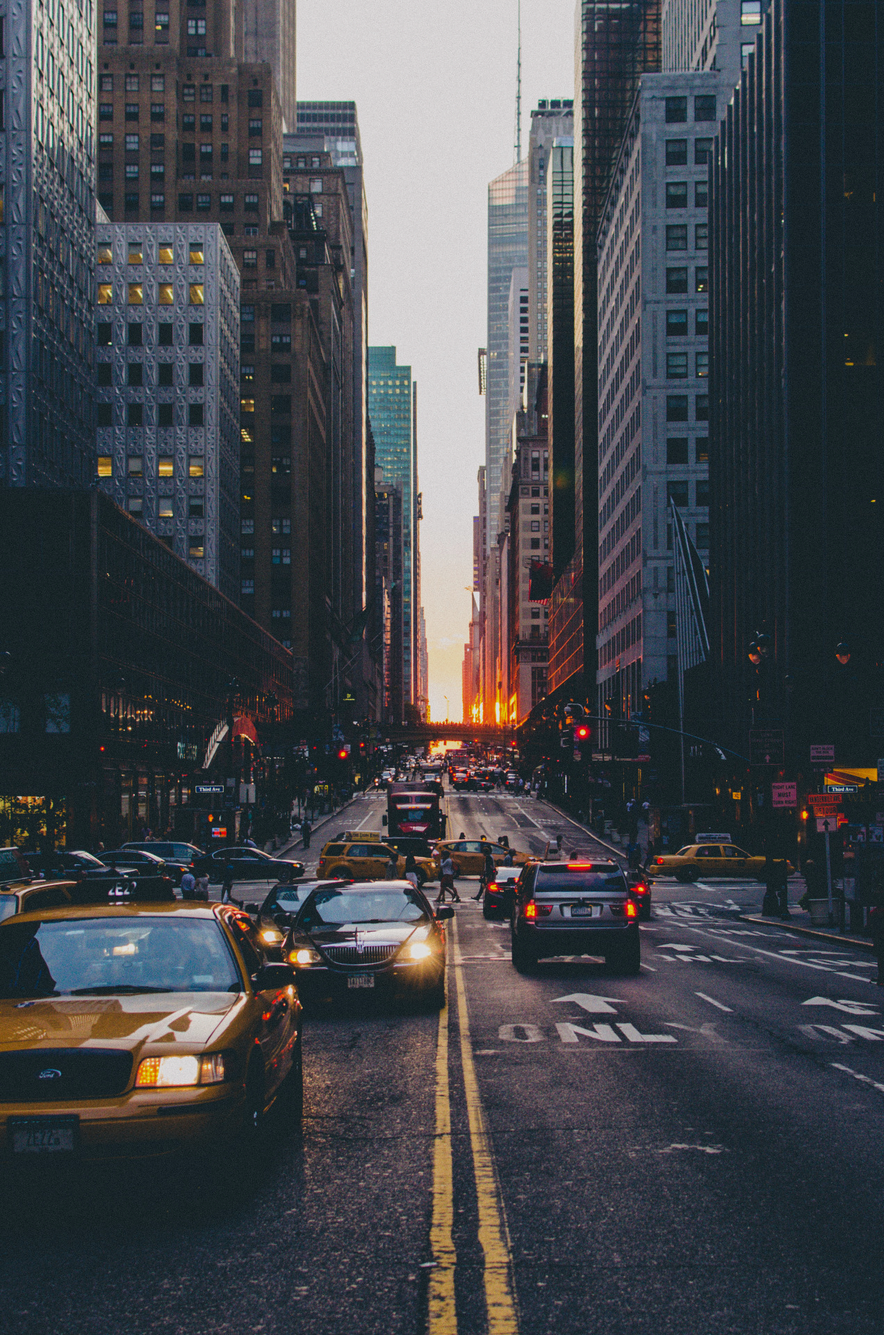
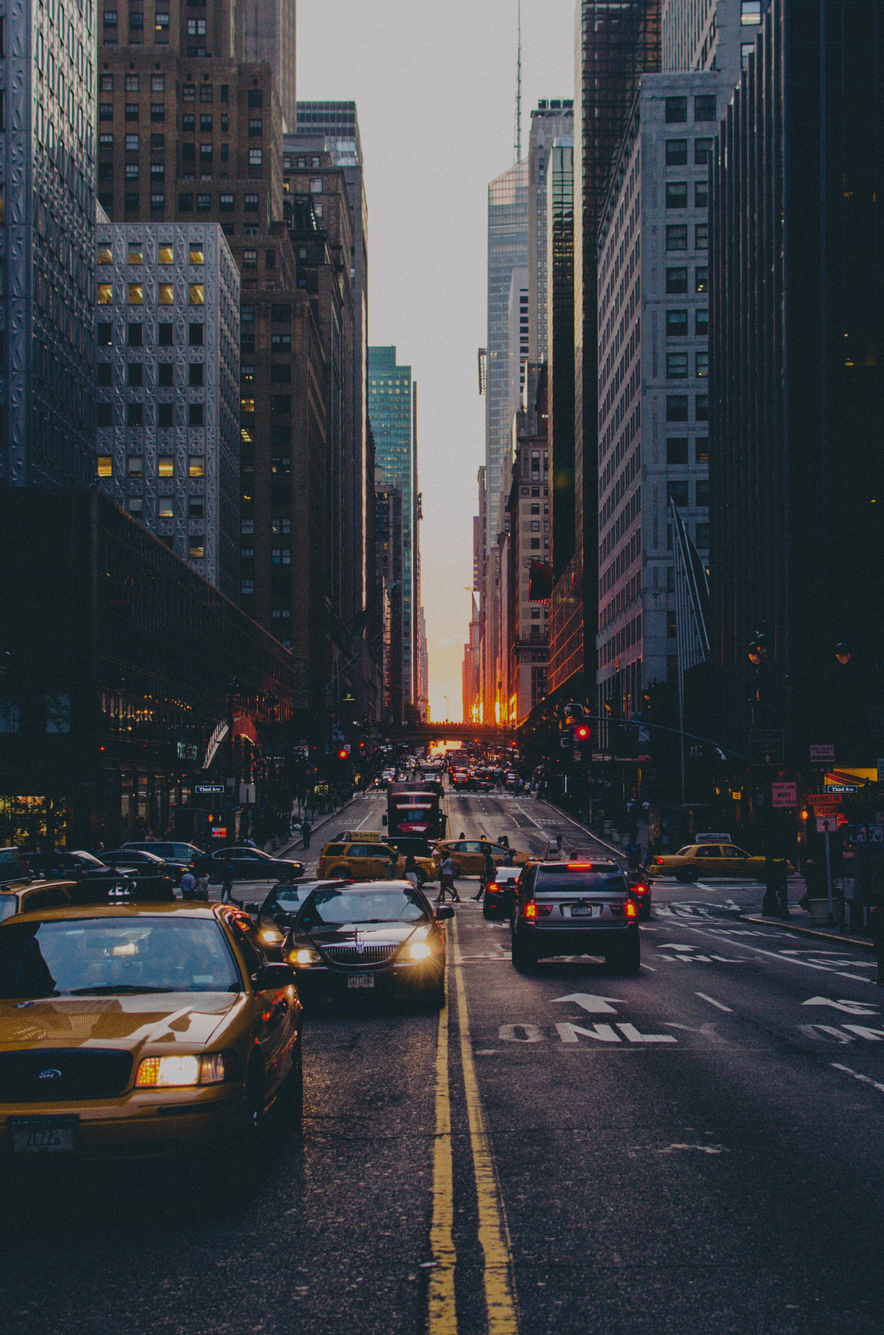
Added content in tutorial and darkened tutorial images

diff --git a/NFCL/src/pages/tutorial/tutorial.html b/NFCL/src/pages/tutorial/tutorial.html
@@ -7,15 +7,15 @@
 <ion-slides pager class="top-slides" (ionSlideDidChange)="slideChanged()">
   <ion-slide>
     <img src="assets/imgs/slides-1.jpg" class="slide-img">
-    <div class="slide-overlay">Slide 1</div>
+    <div class="slide-overlay">Welcome to the<br>No-Frills Cab Locator</div>
   </ion-slide>
   <ion-slide>
     <img src="assets/imgs/slides-2.jpg" class="slide-img">
-    <div class="slide-overlay">Slide 2</div>
+    <div class="slide-overlay">Customers get the details of the closest drivers</div>
   </ion-slide>
   <ion-slide>
     <img src="assets/imgs/slides-3.jpg" class="slide-img">
-    <div class="slide-overlay">Slide 3</div>
+    <div class="slide-overlay">Drivers are notified when a customer is given their details</div>
     <button ion-button icon-only round (click)="closeSlides()" class="slide-close"><ion-icon name="arrow-round-forward"></ion-icon></button>
   </ion-slide>
 </ion-slides>

diff --git a/NFCL/src/pages/tutorial/tutorial.scss b/NFCL/src/pages/tutorial/tutorial.scss
@@ -15,20 +15,24 @@ page-tutorial {
 
   .slide-overlay {
     color: white;
-    font-size: 8vw;
+    font-size: 6vw;
     position: absolute;
     z-index: 4;
-    bottom: 10%;
+    bottom: 12%;
     left: 0;
     right: 0;
     margin: 0 auto;
+    padding: 0 2vw;
+    text-shadow: 0.5vw 0.5vw 0.5vw #00000088;
   }
 
   .slide-close {
     position: absolute;
     z-index: 4;
-    bottom: 3%;
+    bottom: 2%;
     right: 5%;
+    width: 12vw;
+    height: 12vw;
     color: color($colors, dark, base);
     background-color: white !important;
   }
